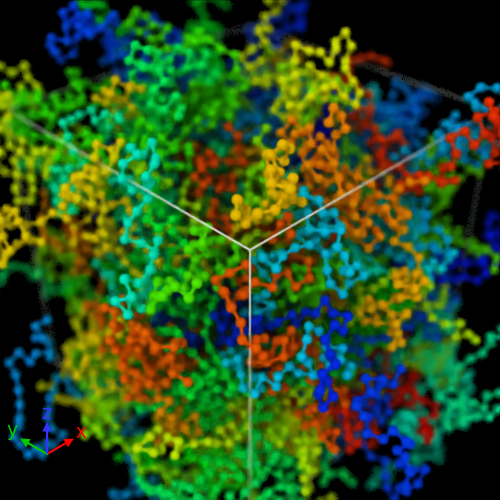
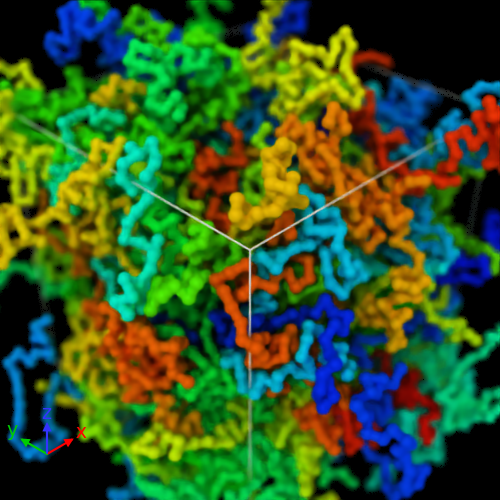
07OSPRay

diff --git a/07OSPRay/ospray.py b/07OSPRay/ospray.py
@@ -93,11 +93,11 @@ pipeline.add_to_scene()
 
 from ovito.vis import ParticlesVis
 particle_vis=pipeline.source.data.particles.vis
-particle_vis.radius=0.3
+particle_vis.radius=0.4
 
 from ovito.vis import BondsVis
 bond_vis=pipeline.source.data.particles.bonds.vis
-bond_vis.width=0.2
+bond_vis.width=0.6
 bond_vis.enabled=True
 
 cell_vis=pipeline.source.data.cell.vis
